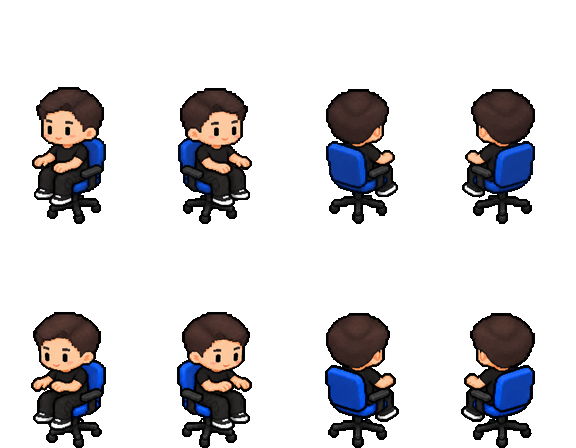
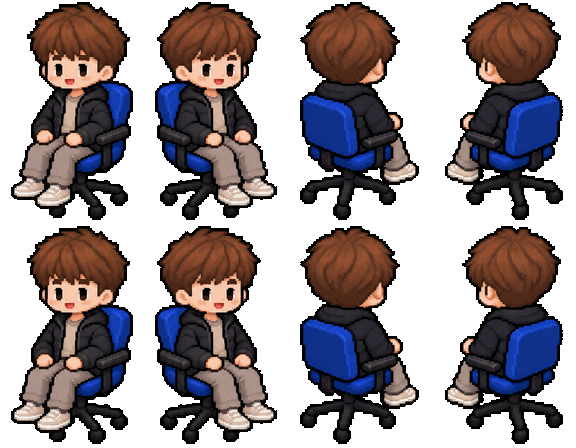
Sửa hình Huy: thay 9 tấm HD vẽ nhầm người bằng bộ mới đúng hồ sơ nhân vật
- Bộ hd_* cũ của 01_Huy là người khác (áo thun đen, tóc ngắn); atlas và chân dung vẫn đúng
- Tạo lại bằng Higgsfield gpt_image_2_5 (5 tấm, 13,75 credit): đi bộ, ngồi, điện thoại,
  nói, ăn mừng, buồn, bốc hỏa, ngồi ghế xanh, ngồi ghế công thái học
- scripts/prepare_huy_v2.py cắt về khung game, cỡ đầu theo CongB; nguồn ở 01_Huy/src_v2,
  bộ sai cũ giữ ở 01_Huy/old_wrong_v1
- Bỏ Huy khỏi danh sách "đảo góc sau" của ghế công thái học (tấm mới vẽ đúng thứ tự)
- Bản game: chỉ thay 9 ảnh của Huy, các ảnh khác giữ nguyên tên
- Bộ kiểm tra: 325/325 đạt

Claude-Session: https://claude.ai/code/session_01U12xFyGk5BnSd9MzWKWwNb

diff --git a/game/index.html b/game/index.html
@@ -1007,7 +1007,7 @@ async function bootStart(){
 
 function bootEnsure(value){const paths=bootPaths(value);return bootPool(paths,async path=>{await bootLoad(path);await bootActivate(new Set([path]));},3).catch(()=>toast("Một số hình ảnh chưa tải được. Hãy thử lại khi kết nối ổn định.","err"));}
 
-const CHARS=[{"id": "01_Huy", "src": "assets/generated/27e20de88eccdaa89cd4b7d7.webp", "sit": "assets/generated/250da326d6314148bd4487ac.webp", "burn": "assets/generated/72e19953c4ad3c7c7a580238.webp", "chairBlue": "assets/generated/95cc7d9948ab436395961621.webp", "chairErgo": "assets/generated/2c8db9aa7c65295408929d93.webp", "talk": "assets/generated/9b09892514e9977753da6648.webp", "cele": "assets/generated/c27b1e06b24d99ca4cd500c3.webp", "sad": "assets/generated/fe81b74eb3d8c25f71099c0c.webp", "use": "assets/generated/e64d95102fabc3a390aac350.webp", "sitScale": 1.2952, "portrait": "assets/generated/4372dbb02e5dfb2189af8fa1.webp"}, {"id": "02_Luwon", "src": "assets/generated/ea6d75d3e4259bb499111485.webp", "sit": "assets/generated/3578124fb9ed132c87f82a30.webp", "burn": "assets/generated/9ca07322cb4c4ac99d870767.webp", "chairBlue": "assets/generated/fbe75f8b607df10a367d8468.webp", "chairErgo": "assets/generated/97ec76f323eec553043b73df.webp", "talk": "assets/generated/9c66ff41254c538868335127.webp", "cele": "assets/generated/2917c0fb3e1c61365d2bb4a2.webp", "sad": "assets/generated/77a4a2c651e100012ca8c8c4.webp", "use": "assets/generated/9508525aa4fc78014f797088.webp", "sitScale": 1.3131, "portrait": "assets/generated/bcb68dd3b70689a7a9be74c2.webp"}, {"id": "03_Pali", "src": "assets/generated/e5b6918fd6b845461790e9da.webp", "sit": "assets/generated/b5bc2b2fb503b9825db7e026.webp", "burn": "assets/generated/18f97dad1a1bd4dc34c38ebe.webp", "chairBlue": "assets/generated/7cebd0a0ad90be684cf9e5de.webp", "chairErgo": "assets/generated/ee9af855f6346b0d5123ed25.webp", "talk": "assets/generated/48070e1c3313ae881597999a.webp", "cele": "assets/generated/127a9383f43fe1ad32a08ca3.webp", "sad": "assets/generated/3eaa40ee289a1cd6f3e4bfdc.webp", "use": "assets/generated/dee89c50c8acb3db4895779c.webp", "sitScale": 1.2211, "portrait": "assets/generated/eef30f7d91a9f372e18c77b0.webp"}, {"id": "04_Tamny", "src": "assets/generated/b43ae805d57481fbc6031821.webp", "sit": "assets/generated/73d1d2bc1a62d3fe8389dad3.webp", "burn": "assets/generated/303efad188dc51755680a7ae.webp", "chairBlue": "assets/generated/fc6f23615fd249db8ea6245a.webp", "chairErgo": "assets/generated/d9cdf28ccfb85b0c8263423d.webp", "talk": "assets/generated/beb3a6e38101b1d6e975adb5.webp", "cele": "assets/generated/88ba2080f39b1aaae65eaaee.webp", "sad": "assets/generated/e7fd25e8a2d5bb3b2ba17836.webp", "use": "assets/generated/3ea68ccf96683d30905bc5a9.webp", "sitScale": 1.3263, "portrait": "assets/generated/6a04bc3ebd650c0ec357e764.webp"}, {"id": "06_Vu_a_Vu", "src": "assets/generated/00b7ccbbccf435b446798ea4.webp", "sit": "assets/generated/7593857dd3c3f00b6f597c19.webp", "burn": "assets/generated/e85855ed363d4704849fed2e.webp", "chairBlue": "assets/generated/cd9302df02cc11d81b01c758.webp", "chairErgo": "assets/generated/538d4b5370cad6b19a004b67.webp", "talk": "assets/generated/04fa739776fc5acca3fb6058.webp", "cele": "assets/generated/09753bdbb9a49681fe5d9386.webp", "sad": "assets/generated/93e670236ce36ef744141919.webp", "use": "assets/generated/d4c2799b64174dc0f8714d64.webp", "sitScale": 1.215, "portrait": "assets/generated/b2e281f54ef7c86000df5df9.webp"}, {"id": "07_Hao_Hao", "src": "assets/generated/6050cc68c555b2cba31e6818.webp", "sit": "assets/generated/60e5cdc36dfe17148ed34cfb.webp", "burn": "assets/generated/5e8b91606a9bcff321610585.webp", "chairBlue": "assets/generated/d42f9e765d63a674b0f7a9fa.webp", "chairErgo": "assets/generated/28afec9daa12102d69a08a30.webp", "talk": "assets/generated/0896f8cd691d704ac84793fb.webp", "cele": "assets/generated/eb6e9a94d5ef996176c9a9d4.webp", "sad": "assets/generated/3ddd1c571991a65c64374330.webp", "use": "assets/generated/83a7b6f9a7568bede497ff0f.webp", "sitScale": 1.4091, "portrait": "assets/generated/9fb4c6e4d55791f42d1098d5.webp"}, {"id": "08_Nganh", "src": "assets/generated/afaa5864307b4099f473cfab.webp", "sit": "assets/generated/1c298d1ed7950d6777dabfc7.webp", "burn": "assets/generated/6f1467f52762df5463b82a16.webp", "chairBlue": "assets/generated/0312bc8dee8c2725d4a5e260.webp", "chairErgo": "assets/generated/d2083c9234026cd5104ee4e0.webp", "talk": "assets/generated/e24319048d469a7aa0c637c6.webp", "cele": "assets/generated/85301d9626490a4485c0290c.webp", "sad": "assets/generated/9da27dc324bb6429625536ea.webp", "use": "assets/generated/d5a9f28d3e57f9edf1f62f8a.webp", "sitScale": 1.3565, "portrait": "assets/generated/440d665cf66f1747d5c46065.webp"}, {"id": "09_Vit_Vang", "src": "assets/generated/d2d0f974918de05183ddda70.webp", "sit": "assets/generated/82a03970e822deadbc8121e8.webp", "burn": "assets/generated/19b28ee3859da86dd1997069.webp", "chairBlue": "assets/generated/33e38dcfc775f902d95876e7.webp", "chairErgo": "assets/generated/d6253f208f5967287547f28f.webp", "talk": "assets/generated/114d14ec16e006dfded0fae2.webp", "cele": "assets/generated/0c2a8227e2e342faba48a3e2.webp", "sad": "assets/generated/75f6344fcf9a75045f722ae3.webp", "use": "assets/generated/22a456e9ed845bce4f63a61d.webp", "sitScale": 1.2586, "portrait": "assets/generated/e2c0e562251c793046b92541.webp"}, {"id": "10_Con_LT", "src": "assets/generated/e753d640734ee56ade3f679c.webp", "sit": "assets/generated/8096c4015e023b56b11887e7.webp", "burn": "assets/generated/f9d5f707630be446314d34da.webp", "chairBlue": "assets/generated/b1235ef11006f86ae6655bf7.webp", "chairErgo": "assets/generated/e76bf3e0c8612b58225b0b3c.webp", "talk": "assets/generated/b1fef4140d375ba58c7301ec.webp", "cele": "assets/generated/ee85dfc719a9564adead6df9.webp", "sad": "assets/generated/fd041ca37232c83ad3192728.webp", "use": "assets/generated/fb3bffe2ae7847a6475d0524.webp", "sitScale": 1.3714, "portrait": "assets/generated/f3907aca614c0a859807b147.webp"}, {"id": "11_Juice", "src": "assets/generated/b69555750983a5b77ed17782.webp", "sit": "assets/generated/bddc18ffed57c6635fede00e.webp", "burn": "assets/generated/1bf753b3f0b601a9332d6854.webp", "chairBlue": "assets/generated/fe7375be2e8865c4d65ab447.webp", "chairErgo": "assets/generated/fcb1cb570f5c327bd0fcd0f2.webp", "talk": "assets/generated/c7042e8319278a712a5e2641.webp", "cele": "assets/generated/c15862e7c43aa70abad5b2a4.webp", "sad": "assets/generated/e3856868b05d518957d36ca7.webp", "use": "assets/generated/3b5212b51b9d8db8bfe02ac3.webp", "sitScale": 1.3448, "portrait": "assets/generated/ed43ec75ce37ab354ac66b59.webp"}, {"id": "12_ADM", "src": "assets/generated/6262c7a2678f3b6c32f7fa1d.webp", "sit": "assets/generated/967f4084531827c07916e623.webp", "burn": "assets/generated/31b7b12d07ffd6c6eea5d957.webp", "chairBlue": "assets/generated/bf56c86c3c8e6a5e5c050edb.webp", "chairErgo": "assets/generated/9f048f5b929d2523cd2980cb.webp", "talk": "assets/generated/d4799cfb0c419e25cbaaadb1.webp", "cele": "assets/generated/d3ee04c2e681d208276d255b.webp", "sad": "assets/generated/41a0ee543016b501bd74ffde.webp", "use": "assets/generated/1bd4a50110888aa863d83628.webp", "sitScale": 1.3333, "portrait": "assets/generated/1e146c31c7c2d375cdbcd58e.webp"}, {"id": "13_AB", "src": "assets/generated/cee1c1e7bf32a6757e8f7457.webp", "sit": "assets/generated/f7407a89351963f0318f0329.webp", "burn": "assets/generated/2769e67ecc648dcc37487260.webp", "chairBlue": "assets/generated/46d7ca3d6604efc52bfce409.webp", "chairErgo": "assets/generated/e77c154f5840b2b51f4e9687.webp", "talk": "assets/generated/3891a2b4103b5608ee98418a.webp", "cele": "assets/generated/07336a499461a765c1d9bed8.webp", "sad": "assets/generated/0487a6b271b594d118f4fddf.webp", "use": "assets/generated/8839b7c5f3b9bc34156e0035.webp", "sitScale": 1.3535, "portrait": "assets/generated/6339289988c3cb0215b99813.webp"}, {"id": "14_HM", "src": "assets/generated/37c9486ea930ecb143d18b3d.webp", "sit": "assets/generated/c55c887e7a4307d9fbcd9f86.webp", "burn": "assets/generated/77ec799bf34e76ea4171c347.webp", "chairBlue": "assets/generated/2b1f1f799dff56531e2a1a33.webp", "chairErgo": "assets/generated/b5d07e1385daad20fb40f6c0.webp", "talk": "assets/generated/4bd7d4095d5603a84d4c70cf.webp", "cele": "assets/generated/3dc2ecd5576be871f8b60913.webp", "sad": "assets/generated/302295d611b7a92dbb367a99.webp", "use": "assets/generated/64a1563547d926bb330c1418.webp", "sitScale": 1.2692, "portrait": "assets/generated/cf33109d85c62dd93815972b.webp"}, {"id": "15_CongB", "src": "assets/generated/1b3f88603fe8f73963317317.webp", "sit": "assets/generated/83c4e6021ff1905881239bd6.webp", "burn": "assets/generated/91329627a3e3d878de1f2175.webp", "chairBlue": "assets/generated/f3aea4f6968e02aae30be48d.webp", "chairErgo": "assets/generated/d91d1c623c1b7a7cbd596892.webp", "talk": "assets/generated/1085555521e75e0dc47f253e.webp", "cele": "assets/generated/a43f28640a01b354beb4bcc1.webp", "sad": "assets/generated/9454105ae01d3b994596b22d.webp", "use": "assets/generated/3411cc20ce8e5e77d073e244.webp", "sitScale": 1.3131, "portrait": "assets/generated/d68c4e91a45d589952f3d610.webp"}, {"id": "trinh_lac_corrected_v2", "src": "assets/generated/c9a0f66c49403179feba2cf4.webp", "sit": "assets/generated/984d6e8c89f507da7a591c63.webp", "burn": "assets/generated/aac8790544a9f31f046914ad.webp", "chairBlue": "assets/generated/a9eb24ea4905127e9f7073ed.webp", "chairErgo": "assets/generated/d6b37cb57cf0f74bc89b6ea1.webp", "talk": "assets/generated/98bec19e3f4040df8c116a89.webp", "cele": "assets/generated/e2bbfd6c88dc5d937d6226e9.webp", "sad": "assets/generated/dea5d53fd872dda1490e275b.webp", "use": "assets/generated/63cb893a0ba5053313c1e424.webp", "sitScale": 1.156, "portrait": "assets/generated/106969ec11b04d54caea2114.webp"}];   // 15 nhân vật, sheet 72×64: hàng 0 mặt trước chéo trái-xuống (SW), hàng 1 lưng chéo trái-lên (NW); hướng phải = lật gương
+const CHARS=[{"id": "01_Huy", "src": "assets/generated/47dad755268df77d4881f079.webp", "sit": "assets/generated/46c7b88397edc83ba1e7bcbb.webp", "burn": "assets/generated/da76d6a7cb2cf40d925590d5.webp", "chairBlue": "assets/generated/53edfb832d9b2c79372b9235.webp", "chairErgo": "assets/generated/bfd1cf71e60031a5f7096c55.webp", "talk": "assets/generated/28d9cf95fd2fdb4217083b85.webp", "cele": "assets/generated/3214a666ef088a39f8c614bd.webp", "sad": "assets/generated/f7670d8edb462ef87a6019ae.webp", "use": "assets/generated/3c493003cc021641d435581a.webp", "sitScale": 1.0, "portrait": "assets/generated/4372dbb02e5dfb2189af8fa1.webp"}, {"id": "02_Luwon", "src": "assets/generated/ea6d75d3e4259bb499111485.webp", "sit": "assets/generated/3578124fb9ed132c87f82a30.webp", "burn": "assets/generated/9ca07322cb4c4ac99d870767.webp", "chairBlue": "assets/generated/fbe75f8b607df10a367d8468.webp", "chairErgo": "assets/generated/97ec76f323eec553043b73df.webp", "talk": "assets/generated/9c66ff41254c538868335127.webp", "cele": "assets/generated/2917c0fb3e1c61365d2bb4a2.webp", "sad": "assets/generated/77a4a2c651e100012ca8c8c4.webp", "use": "assets/generated/9508525aa4fc78014f797088.webp", "sitScale": 1.3131, "portrait": "assets/generated/bcb68dd3b70689a7a9be74c2.webp"}, {"id": "03_Pali", "src": "assets/generated/e5b6918fd6b845461790e9da.webp", "sit": "assets/generated/b5bc2b2fb503b9825db7e026.webp", "burn": "assets/generated/18f97dad1a1bd4dc34c38ebe.webp", "chairBlue": "assets/generated/7cebd0a0ad90be684cf9e5de.webp", "chairErgo": "assets/generated/ee9af855f6346b0d5123ed25.webp", "talk": "assets/generated/48070e1c3313ae881597999a.webp", "cele": "assets/generated/127a9383f43fe1ad32a08ca3.webp", "sad": "assets/generated/3eaa40ee289a1cd6f3e4bfdc.webp", "use": "assets/generated/dee89c50c8acb3db4895779c.webp", "sitScale": 1.2211, "portrait": "assets/generated/eef30f7d91a9f372e18c77b0.webp"}, {"id": "04_Tamny", "src": "assets/generated/b43ae805d57481fbc6031821.webp", "sit": "assets/generated/73d1d2bc1a62d3fe8389dad3.webp", "burn": "assets/generated/303efad188dc51755680a7ae.webp", "chairBlue": "assets/generated/fc6f23615fd249db8ea6245a.webp", "chairErgo": "assets/generated/d9cdf28ccfb85b0c8263423d.webp", "talk": "assets/generated/beb3a6e38101b1d6e975adb5.webp", "cele": "assets/generated/88ba2080f39b1aaae65eaaee.webp", "sad": "assets/generated/e7fd25e8a2d5bb3b2ba17836.webp", "use": "assets/generated/3ea68ccf96683d30905bc5a9.webp", "sitScale": 1.3263, "portrait": "assets/generated/6a04bc3ebd650c0ec357e764.webp"}, {"id": "06_Vu_a_Vu", "src": "assets/generated/00b7ccbbccf435b446798ea4.webp", "sit": "assets/generated/7593857dd3c3f00b6f597c19.webp", "burn": "assets/generated/e85855ed363d4704849fed2e.webp", "chairBlue": "assets/generated/cd9302df02cc11d81b01c758.webp", "chairErgo": "assets/generated/538d4b5370cad6b19a004b67.webp", "talk": "assets/generated/04fa739776fc5acca3fb6058.webp", "cele": "assets/generated/09753bdbb9a49681fe5d9386.webp", "sad": "assets/generated/93e670236ce36ef744141919.webp", "use": "assets/generated/d4c2799b64174dc0f8714d64.webp", "sitScale": 1.215, "portrait": "assets/generated/b2e281f54ef7c86000df5df9.webp"}, {"id": "07_Hao_Hao", "src": "assets/generated/6050cc68c555b2cba31e6818.webp", "sit": "assets/generated/60e5cdc36dfe17148ed34cfb.webp", "burn": "assets/generated/5e8b91606a9bcff321610585.webp", "chairBlue": "assets/generated/d42f9e765d63a674b0f7a9fa.webp", "chairErgo": "assets/generated/28afec9daa12102d69a08a30.webp", "talk": "assets/generated/0896f8cd691d704ac84793fb.webp", "cele": "assets/generated/eb6e9a94d5ef996176c9a9d4.webp", "sad": "assets/generated/3ddd1c571991a65c64374330.webp", "use": "assets/generated/83a7b6f9a7568bede497ff0f.webp", "sitScale": 1.4091, "portrait": "assets/generated/9fb4c6e4d55791f42d1098d5.webp"}, {"id": "08_Nganh", "src": "assets/generated/afaa5864307b4099f473cfab.webp", "sit": "assets/generated/1c298d1ed7950d6777dabfc7.webp", "burn": "assets/generated/6f1467f52762df5463b82a16.webp", "chairBlue": "assets/generated/0312bc8dee8c2725d4a5e260.webp", "chairErgo": "assets/generated/d2083c9234026cd5104ee4e0.webp", "talk": "assets/generated/e24319048d469a7aa0c637c6.webp", "cele": "assets/generated/85301d9626490a4485c0290c.webp", "sad": "assets/generated/9da27dc324bb6429625536ea.webp", "use": "assets/generated/d5a9f28d3e57f9edf1f62f8a.webp", "sitScale": 1.3565, "portrait": "assets/generated/440d665cf66f1747d5c46065.webp"}, {"id": "09_Vit_Vang", "src": "assets/generated/d2d0f974918de05183ddda70.webp", "sit": "assets/generated/82a03970e822deadbc8121e8.webp", "burn": "assets/generated/19b28ee3859da86dd1997069.webp", "chairBlue": "assets/generated/33e38dcfc775f902d95876e7.webp", "chairErgo": "assets/generated/d6253f208f5967287547f28f.webp", "talk": "assets/generated/114d14ec16e006dfded0fae2.webp", "cele": "assets/generated/0c2a8227e2e342faba48a3e2.webp", "sad": "assets/generated/75f6344fcf9a75045f722ae3.webp", "use": "assets/generated/22a456e9ed845bce4f63a61d.webp", "sitScale": 1.2586, "portrait": "assets/generated/e2c0e562251c793046b92541.webp"}, {"id": "10_Con_LT", "src": "assets/generated/e753d640734ee56ade3f679c.webp", "sit": "assets/generated/8096c4015e023b56b11887e7.webp", "burn": "assets/generated/f9d5f707630be446314d34da.webp", "chairBlue": "assets/generated/b1235ef11006f86ae6655bf7.webp", "chairErgo": "assets/generated/e76bf3e0c8612b58225b0b3c.webp", "talk": "assets/generated/b1fef4140d375ba58c7301ec.webp", "cele": "assets/generated/ee85dfc719a9564adead6df9.webp", "sad": "assets/generated/fd041ca37232c83ad3192728.webp", "use": "assets/generated/fb3bffe2ae7847a6475d0524.webp", "sitScale": 1.3714, "portrait": "assets/generated/f3907aca614c0a859807b147.webp"}, {"id": "11_Juice", "src": "assets/generated/b69555750983a5b77ed17782.webp", "sit": "assets/generated/bddc18ffed57c6635fede00e.webp", "burn": "assets/generated/1bf753b3f0b601a9332d6854.webp", "chairBlue": "assets/generated/fe7375be2e8865c4d65ab447.webp", "chairErgo": "assets/generated/fcb1cb570f5c327bd0fcd0f2.webp", "talk": "assets/generated/c7042e8319278a712a5e2641.webp", "cele": "assets/generated/c15862e7c43aa70abad5b2a4.webp", "sad": "assets/generated/e3856868b05d518957d36ca7.webp", "use": "assets/generated/3b5212b51b9d8db8bfe02ac3.webp", "sitScale": 1.3448, "portrait": "assets/generated/ed43ec75ce37ab354ac66b59.webp"}, {"id": "12_ADM", "src": "assets/generated/6262c7a2678f3b6c32f7fa1d.webp", "sit": "assets/generated/967f4084531827c07916e623.webp", "burn": "assets/generated/31b7b12d07ffd6c6eea5d957.webp", "chairBlue": "assets/generated/bf56c86c3c8e6a5e5c050edb.webp", "chairErgo": "assets/generated/9f048f5b929d2523cd2980cb.webp", "talk": "assets/generated/d4799cfb0c419e25cbaaadb1.webp", "cele": "assets/generated/d3ee04c2e681d208276d255b.webp", "sad": "assets/generated/41a0ee543016b501bd74ffde.webp", "use": "assets/generated/1bd4a50110888aa863d83628.webp", "sitScale": 1.3333, "portrait": "assets/generated/1e146c31c7c2d375cdbcd58e.webp"}, {"id": "13_AB", "src": "assets/generated/cee1c1e7bf32a6757e8f7457.webp", "sit": "assets/generated/f7407a89351963f0318f0329.webp", "burn": "assets/generated/2769e67ecc648dcc37487260.webp", "chairBlue": "assets/generated/46d7ca3d6604efc52bfce409.webp", "chairErgo": "assets/generated/e77c154f5840b2b51f4e9687.webp", "talk": "assets/generated/3891a2b4103b5608ee98418a.webp", "cele": "assets/generated/07336a499461a765c1d9bed8.webp", "sad": "assets/generated/0487a6b271b594d118f4fddf.webp", "use": "assets/generated/8839b7c5f3b9bc34156e0035.webp", "sitScale": 1.3535, "portrait": "assets/generated/6339289988c3cb0215b99813.webp"}, {"id": "14_HM", "src": "assets/generated/37c9486ea930ecb143d18b3d.webp", "sit": "assets/generated/c55c887e7a4307d9fbcd9f86.webp", "burn": "assets/generated/77ec799bf34e76ea4171c347.webp", "chairBlue": "assets/generated/2b1f1f799dff56531e2a1a33.webp", "chairErgo": "assets/generated/b5d07e1385daad20fb40f6c0.webp", "talk": "assets/generated/4bd7d4095d5603a84d4c70cf.webp", "cele": "assets/generated/3dc2ecd5576be871f8b60913.webp", "sad": "assets/generated/302295d611b7a92dbb367a99.webp", "use": "assets/generated/64a1563547d926bb330c1418.webp", "sitScale": 1.2692, "portrait": "assets/generated/cf33109d85c62dd93815972b.webp"}, {"id": "15_CongB", "src": "assets/generated/1b3f88603fe8f73963317317.webp", "sit": "assets/generated/83c4e6021ff1905881239bd6.webp", "burn": "assets/generated/91329627a3e3d878de1f2175.webp", "chairBlue": "assets/generated/f3aea4f6968e02aae30be48d.webp", "chairErgo": "assets/generated/d91d1c623c1b7a7cbd596892.webp", "talk": "assets/generated/1085555521e75e0dc47f253e.webp", "cele": "assets/generated/a43f28640a01b354beb4bcc1.webp", "sad": "assets/generated/9454105ae01d3b994596b22d.webp", "use": "assets/generated/3411cc20ce8e5e77d073e244.webp", "sitScale": 1.3131, "portrait": "assets/generated/d68c4e91a45d589952f3d610.webp"}, {"id": "trinh_lac_corrected_v2", "src": "assets/generated/c9a0f66c49403179feba2cf4.webp", "sit": "assets/generated/984d6e8c89f507da7a591c63.webp", "burn": "assets/generated/aac8790544a9f31f046914ad.webp", "chairBlue": "assets/generated/a9eb24ea4905127e9f7073ed.webp", "chairErgo": "assets/generated/d6b37cb57cf0f74bc89b6ea1.webp", "talk": "assets/generated/98bec19e3f4040df8c116a89.webp", "cele": "assets/generated/e2bbfd6c88dc5d937d6226e9.webp", "sad": "assets/generated/dea5d53fd872dda1490e275b.webp", "use": "assets/generated/63cb893a0ba5053313c1e424.webp", "sitScale": 1.156, "portrait": "assets/generated/106969ec11b04d54caea2114.webp"}];   // 15 nhân vật, sheet 72×64: hàng 0 mặt trước chéo trái-xuống (SW), hàng 1 lưng chéo trái-lên (NW); hướng phải = lật gương
 const CREATOR={"scale": 50, "bases": {"m": {"char": "15_CongB", "lum": {"1": [89.5, 207.3, 219.1], "2": [25.3, 48.2, 64.5], "3": [135.5, 236.6, 255.0], "4": [21.5, 40.8, 83.2]}, "masks": {"walk": "assets/generated/a01edb83e1fa6e0b57e01bbd.webp", "sit": "assets/generated/71c18a78e4a9bd697e7a59e7.webp", "use": "assets/generated/b5c52923ac334a359bcb857b.webp", "talk": "assets/generated/15e16734e72bc349a7c56f5a.webp", "cele": "assets/generated/f6fe91b0a4266eeb71762c05.webp", "sad": "assets/generated/a388b00523749a4b334b0a67.webp", "burn": "assets/generated/7bd37c9414b40ff5bdeb3ebd.webp"}}, "f": {"char": "07_Hao_Hao", "lum": {"1": [92.8, 210.5, 222.7], "2": [23.3, 47.8, 61.1], "3": [56.5, 207.9, 242.1], "4": [66.9, 167.3, 197.5]}, "masks": {"walk": "assets/generated/7b4d7d2fa2068cfe8e3758f0.webp", "sit": "assets/generated/13e1ad27020b659a1ad6f16c.webp", "use": "assets/generated/99850a3e25ac2c62839ac674.webp", "talk": "assets/generated/bd04579abb207131fb160956.webp", "cele": "assets/generated/707f34e5f14f5fdab299963a.webp", "sad": "assets/generated/6f023c2ce63961f7cf4af8f5.webp", "burn": "assets/generated/90a11d2d0af2cd7a74513026.webp"}}, "m2": {"char": "C_short_m", "lum": {"1": [116.9, 202.2, 213.0], "2": [24.2, 50.9, 63.6], "3": [37.8, 91.8, 101.8], "4": [26.7, 77.2, 90.9]}, "masks": {"walk": "assets/generated/e9c56980968bbca3b010d914.webp", "sit": "assets/generated/36a6fe119d7f222b54ac238e.webp", "use": "assets/generated/0114fe551777f16fbe13064f.webp", "talk": "assets/generated/bfb9ad8fcb2e54722b48d3c8.webp", "cele": "assets/generated/f3d7c8941d2266c6c45c91aa.webp", "sad": "assets/generated/3775c20691f5d4612635b92f.webp"}, "sheets": {"src": "assets/generated/55116681863f6f6836c1ad99.webp", "sit": "assets/generated/009e35fd558db5eb141fda4d.webp", "use": "assets/generated/a5694013b6c4e6d40ea874b3.webp", "talk": "assets/generated/4e5f7698ecae8775f781d330.webp", "cele": "assets/generated/ae92106460e70b0ab21760e6.webp", "sad": "assets/generated/7b47e00db5fde674d4b80714.webp"}, "sitScale": 0.8923}, "f2": {"char": "C_short_f", "lum": {"1": [102.6, 205.4, 216.4], "2": [22.2, 49.2, 61.4], "3": [38.6, 95.2, 106.5], "4": [39.3, 102.0, 114.7]}, "masks": {"walk": "assets/generated/0170c19524b8aba86782b55b.webp", "sit": "assets/generated/12311dac94cf73f546c05407.webp", "use": "assets/generated/b056687cc3f777a24b242132.webp", "talk": "assets/generated/39807717b0bea64815b1af58.webp", "cele": "assets/generated/de68b6df0111e631b48f9352.webp", "sad": "assets/generated/a3269b0f3d361d11e1391f43.webp"}, "sheets": {"src": "assets/generated/563a30a11fed55fb5621a905.webp", "sit": "assets/generated/58a4bf3f3ce4676d47f795c3.webp", "use": "assets/generated/fc4663a469e462a96b4730d1.webp", "talk": "assets/generated/ad6c7990368cea44d4a58e33.webp", "cele": "assets/generated/c49433068f1ac3d58ef66e0a.webp", "sad": "assets/generated/c86e3e62e1273438c3d64688.webp"}, "sitScale": 0.9919}}};   // dáng gốc + mặt nạ vùng cho "Tự tạo nhân vật" (player.js)
 // Nhân vật tự tạo của người chơi là một nhân vật thêm "P_custom": dùng ảnh của dáng gốc, đổi màu ngay sau khi tải (player.js).
 const PLAYER_BOOT=(()=>{ try{ const o=JSON.parse((VISIT?VISIT.raw:localStorage.getItem(SAVE))||"null"), p=o&&o.gs&&o.gs.player; return p&&p.kind==="custom"&&p.look&&CREATOR.bases[p.look.base]?p:null; }catch(e){ return null; } })();

diff --git a/scripts/prepare_huy_v2.py b/scripts/prepare_huy_v2.py
@@ -1,0 +1,106 @@
+"""Thay bộ hình HD của Huy (14/10/2026).
+
+Bộ hd_* cũ của 01_Huy được AI vẽ nhầm người (áo thun đen, tóc ngắn) trong khi atlas gốc
+và chân dung đúng hồ sơ (tóc nâu, áo phao đen mở ngoài áo be, quần kaki).
+Nguồn mới: 5 tấm Higgsfield gpt_image_2_5 (high, 2k, nền trong), đã thu nhỏ 1/2:
+  assets/characters/01_Huy/src_v2/huy_walk_raw.png        3×2  đi bộ trước/sau        (job f10a139a)
+  assets/characters/01_Huy/src_v2/huy_actions_raw.png     4×4  ngồi, điện thoại, nói, ăn mừng, buồn (5a9f2653)
+  assets/characters/01_Huy/src_v2/huy_burn_raw.png        2×2  bốc hỏa trước/sau      (3c482439)
+  assets/characters/01_Huy/src_v2/huy_chair_blue_raw.png  2×2  ngồi ghế xanh 4 góc    (641872b5)
+  assets/characters/01_Huy/src_v2/huy_chair_ergo_raw.png  2×2  ngồi ghế công thái học (2b437b77)
+Bộ cũ giữ ở assets/characters/01_Huy/old_wrong_v1/.
+Chạy: python3 -I scripts/prepare_huy_v2.py  rồi python3 source/build.py
+"""
+import shutil, statistics, sys
+from pathlib import Path
+import numpy as np
+from PIL import Image
+
+ROOT = Path(__file__).resolve().parents[1]
+sys.path.insert(0, str(ROOT / 'scripts'))
+from prepare_skins import clean, cells, head_width, fit_cell, atlas  # noqa: E402
+
+CH = ROOT / 'assets/characters'
+OUT = CH / '01_Huy'
+SRC = OUT / 'src_v2'
+REF = '15_CongB'   # cùng giới, cùng khung: lấy cỡ đầu và vị trí đặt chân theo nhân vật này
+ACTIONS = {'sit': [0, 1, 4, 5], 'use': [2, 3, 6, 7], 'talk': [8, 9, 12, 13], 'cele': [10, 10, 14, 14], 'sad': [11, 11, 15, 15]}
+STANDING = [2, 3, 6, 7, 8, 9, 12, 13]
+
+
+def fit_scaled(im, size, scale, hip=False):
+    w, h = size
+    scale = min(scale, (w - 8) / im.width, (h - 4) / im.height)
+    sprite = clean(im.resize((max(1, round(im.width * scale)), max(1, round(im.height * scale))), Image.Resampling.LANCZOS))
+    x = round((w - sprite.width) / 2)
+    y = round(94 - sprite.height * .76) if hip else h - 2 - sprite.height
+    y = max(1, min(h - sprite.height - 1, y))
+    frame = Image.new('RGBA', size)
+    frame.alpha_composite(sprite, (x, y))
+    return frame
+
+
+def backup():
+    old = OUT / 'old_wrong_v1'
+    if old.exists():
+        return
+    old.mkdir()
+    for f in OUT.glob('hd_*.png'):
+        shutil.copy2(f, old / f.name)
+
+
+def walk_and_actions():
+    ref = clean(Image.open(CH / REF / 'hd_walk.png')).crop((96, 0, 192, 128))
+    head = head_width(ref.crop(ref.getbbox()))
+    walk = cells(SRC / 'huy_walk_raw.png', 3, 2)
+    atlas([fit_cell(x, (96, 128), head) for x in walk], 3, 2, (96, 128), OUT / 'hd_walk.png')
+    actions = cells(SRC / 'huy_actions_raw.png', 4, 4)
+    scale = head / statistics.median(head_width(actions[i]) for i in STANDING)
+    for kind, idx in ACTIONS.items():
+        k = head / statistics.median(head_width(actions[i]) for i in idx) if kind == 'sit' else scale
+        atlas([fit_scaled(actions[i], (96, 128), k, hip=kind == 'sit') for i in idx], 2, 2, (96, 128), OUT / f'hd_{kind}.png')
+
+
+def burn():
+    W, H = 160, 224
+    ref = Image.open(CH / REF / 'hd_burn.png').convert('RGBA')
+    ref_cells = [ref.crop((c * W, r * H, (c + 1) * W, (r + 1) * H)) for r in range(2) for c in range(2)]
+    # So chiều cao cả hình (gồm lửa và khói): lửa của các nhân vật cùng cỡ nên tỉ lệ ổn định hơn đo riêng thân.
+    target = statistics.median(x.getbbox()[3] - x.getbbox()[1] for x in ref_cells)
+    frames = cells(SRC / 'huy_burn_raw.png', 2, 2)
+    s = target / statistics.median(x.height for x in frames)
+    sheet = Image.new('RGBA', (2 * W, 2 * H))
+    for i, x in enumerate(frames):
+        sm = clean(x.resize((max(1, round(x.width * s)), max(1, round(x.height * s))), Image.Resampling.LANCZOS))
+        if sm.width > W - 4 or sm.height > H - 2:
+            sm.thumbnail((W - 4, H - 2), Image.Resampling.LANCZOS)
+        r, c = divmod(i, 2)
+        sheet.alpha_composite(sm, (c * W + (W - sm.width) // 2, r * H + H - 1 - sm.height))
+    sheet.save(OUT / 'hd_burn.png')
+
+
+def chairs():
+    # 4 góc theo thứ tự game: 01_front_left, 02_front_right, 03_back_right, 04_back_left.
+    # Tấm nguồn 2×2: trên-trái, trên-phải, dưới-phải, dưới-trái. Hàng 2 = khung gõ phím thứ hai (dùng lại khung 1).
+    W, H = 144, 224
+    quad = [(0, 0), (1, 0), (1, 1), (0, 1)]
+    for ck in ['blue', 'ergo']:
+        src = clean(Image.open(SRC / f'huy_chair_{ck}_raw.png'))
+        hw, hh = src.width // 2, src.height // 2
+        sheet = Image.new('RGBA', (4 * W, 2 * H))
+        for i, (qx, qy) in enumerate(quad):
+            part = src.crop((qx * hw, qy * hh, (qx + 1) * hw, (qy + 1) * hh))
+            part = part.crop(part.getbbox())
+            s = min((W - 4) / part.width, (H - 6) / part.height)
+            sm = clean(part.resize((max(1, round(part.width * s)), max(1, round(part.height * s))), Image.Resampling.LANCZOS))
+            for row in range(2):
+                sheet.alpha_composite(sm, (i * W + (W - sm.width) // 2, row * H + H - 4 - sm.height))
+        sheet.save(OUT / f'hd_chair_{ck}.png')
+
+
+if __name__ == '__main__':
+    backup()
+    walk_and_actions()
+    burn()
+    chairs()
+    print('ok')
